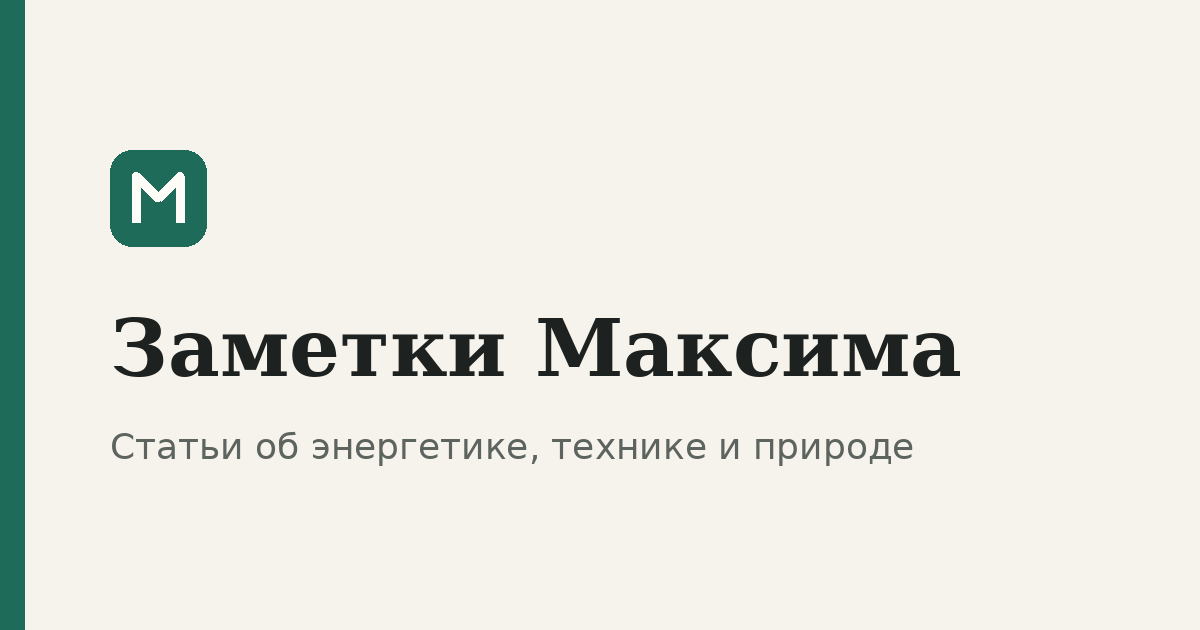
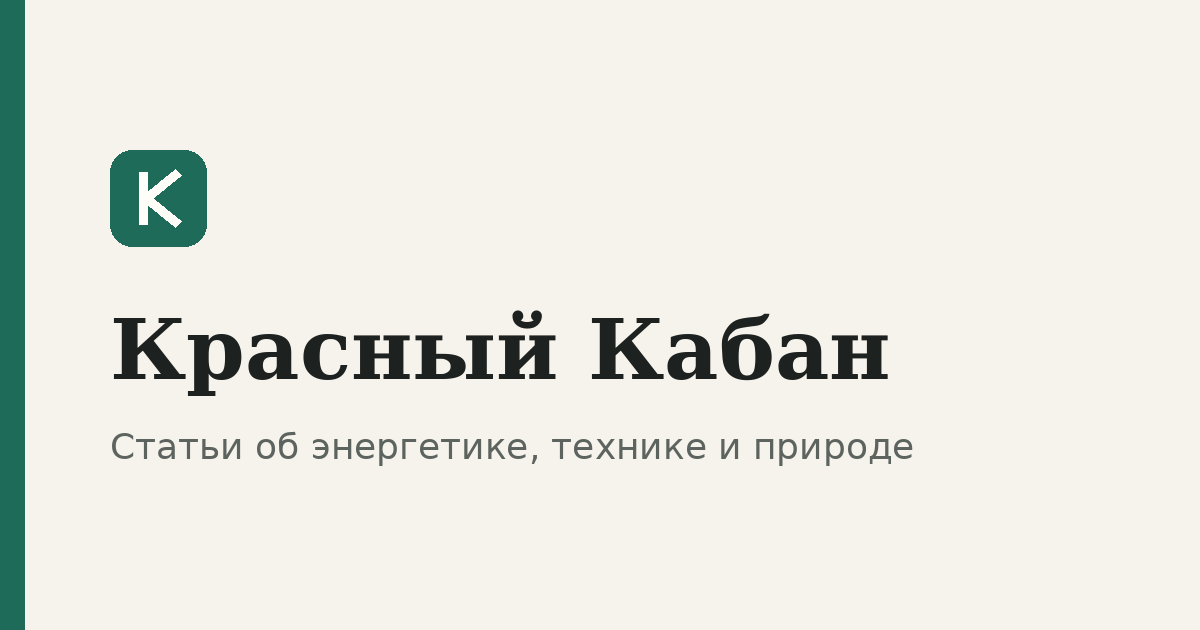
Название сайта: Красный Кабан

Changed region(s): [[0.0925, 0.4825, 0.8017, 0.6333], [0.0925, 0.2714, 0.1542, 0.3619]]

diff --git a/layouts/partials/logo.html b/layouts/partials/logo.html
@@ -1,5 +1,5 @@
 <svg class="logo" viewBox="0 0 32 32" width="28" height="28" fill="none" aria-hidden="true">
   <rect x="3" y="3" width="26" height="26" rx="6" stroke="currentColor" stroke-width="2"/>
-  <path d="M9 22V10l7 7 7-7v12" stroke="currentColor" stroke-width="2.2" stroke-linecap="round" stroke-linejoin="round"/>
-  <circle cx="23" cy="22" r="1.8" fill="var(--accent)"/>
+  <path d="M11 9.5v13M21.5 9.5 11.5 16.5l10 6" stroke="currentColor" stroke-width="2.2" stroke-linecap="round" stroke-linejoin="round"/>
+  <circle cx="23" cy="22.5" r="1.8" fill="var(--accent)"/>
 </svg>

diff --git a/layouts/index.html b/layouts/index.html
@@ -1,6 +1,6 @@
 {{ define "main" }}
 <section class="wrap hero">
-  <p class="eyebrow">{{ site.Params.author }}</p>
+  <p class="eyebrow">Статьи и заметки</p>
   <h1>{{ site.Title }}</h1>
   <div class="lede">{{ .Content }}</div>
 </section>
